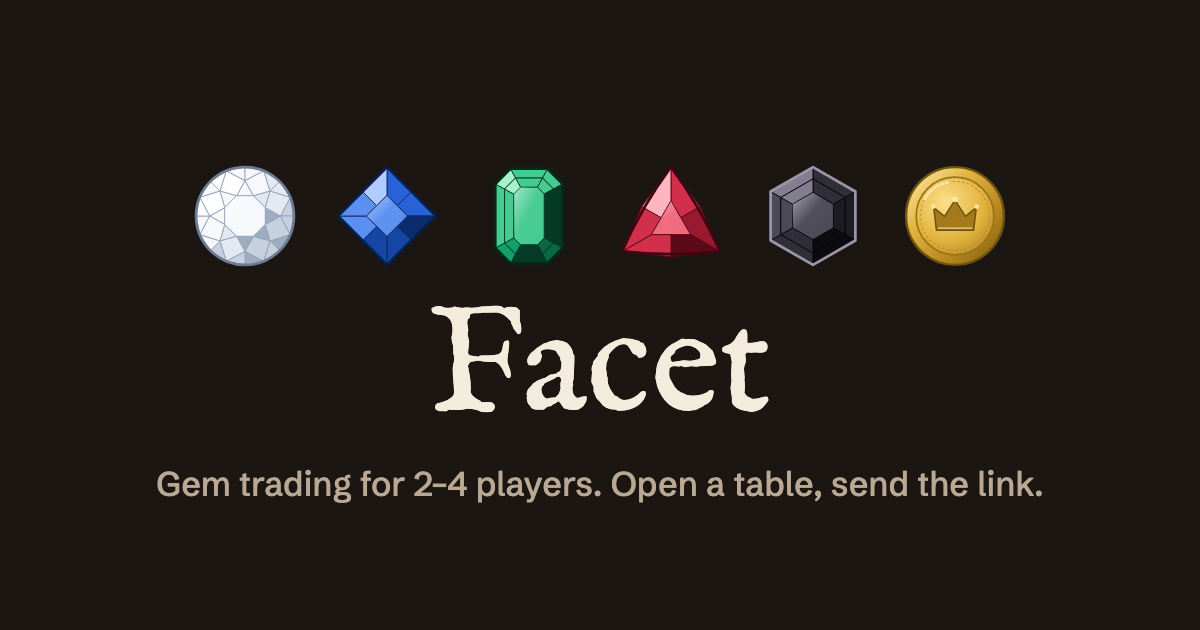
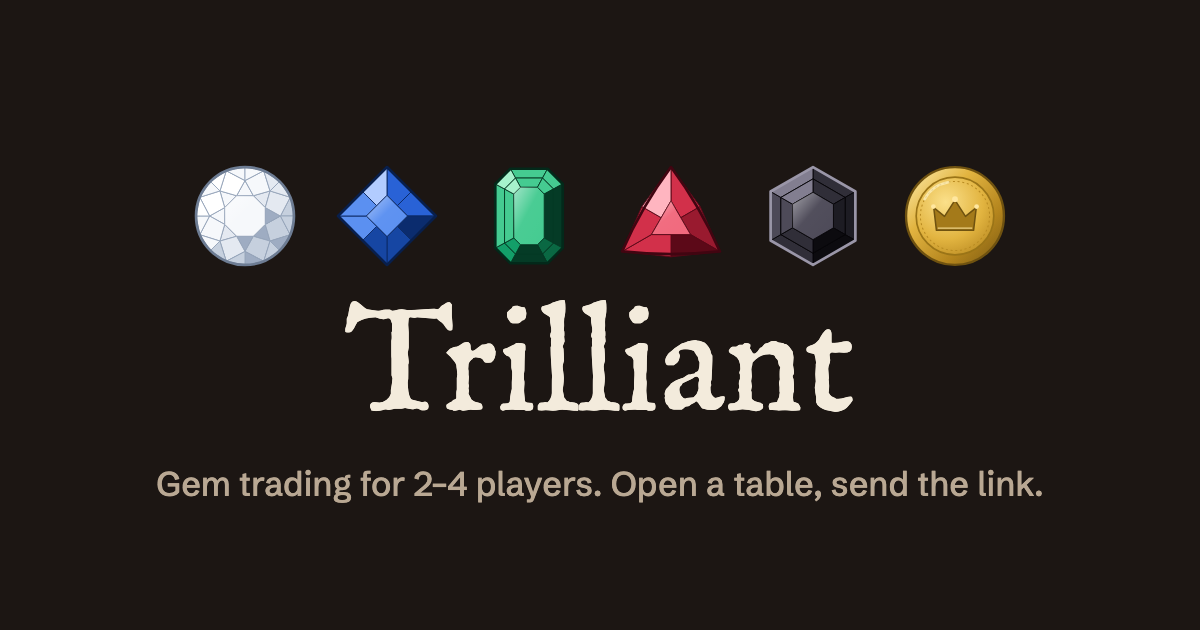
Rename to Trilliant
The triangular gem cut (the ruby here). Brand, favicon, preview image,
storage keys and protocol labels all move to the new name; nothing was
deployed under the old one, so no compatibility to keep. Tab-lock
heartbeat now runs on the worker ticker too.

Changed region(s): [[0.2775, 0.4825, 0.7092, 0.6635]]

diff --git a/js/net/identity.js b/js/net/identity.js
@@ -2,6 +2,7 @@
 // app keeps. Storage is injected so the same code runs in tests.
 
 import { createIdentity, loadIdentity, randomId } from './crypto.js';
+import { every } from './ticker.js';
 
 const TAB_TOKEN = randomId(6);
 const LIVE_MS = 5000;
@@ -17,7 +18,7 @@ function memoryStore() {
 
 function safe(store) {
   try {
-    const probe = '__facet_probe__';
+    const probe = '__trilliant_probe__';
     store.setItem(probe, '1');
     store.removeItem(probe);
     return store;
@@ -45,15 +46,15 @@ const writeJSON = (store, key, value) => {
 // ---------- identity per room ----------
 
 function isLiveElsewhere(storage, roomId, id) {
-  const rec = readJSON(storage.local, `facet:live:${roomId}`);
+  const rec = readJSON(storage.local, `trilliant:live:${roomId}`);
   return !!rec && rec.id === id && rec.tab !== TAB_TOKEN && Date.now() - rec.at < LIVE_MS;
 }
 
 // Returns { identity } or { conflict: true } when this browser's identity for
 // the room is already in use by another open tab.
 export async function resolveIdentity(storage, roomId, { forceNew = false } = {}) {
-  const tabKey = `facet:tab:${roomId}`;
-  const localKey = `facet:id:${roomId}`;
+  const tabKey = `trilliant:tab:${roomId}`;
+  const localKey = `trilliant:id:${roomId}`;
   const mine = readJSON(storage.session, tabKey);
   if (mine && !forceNew) return { identity: await loadIdentity(mine) };
   const shared = readJSON(storage.local, localKey);
@@ -71,39 +72,39 @@ export async function resolveIdentity(storage, roomId, { forceNew = false } = {}
 
 // Keep a heartbeat so a second tab can tell the identity is taken.
 export function holdIdentity(storage, roomId, id) {
-  const beat = () => writeJSON(storage.local, `facet:live:${roomId}`, { id, tab: TAB_TOKEN, at: Date.now() });
+  const beat = () => writeJSON(storage.local, `trilliant:live:${roomId}`, { id, tab: TAB_TOKEN, at: Date.now() });
   beat();
-  const timer = setInterval(beat, 2000);
+  const stop = every(2000, beat);
   return () => {
-    clearInterval(timer);
-    const rec = readJSON(storage.local, `facet:live:${roomId}`);
-    if (rec && rec.tab === TAB_TOKEN) storage.local.removeItem(`facet:live:${roomId}`);
+    stop();
+    const rec = readJSON(storage.local, `trilliant:live:${roomId}`);
+    if (rec && rec.tab === TAB_TOKEN) storage.local.removeItem(`trilliant:live:${roomId}`);
   };
 }
 
 // ---------- host records and recent tables ----------
 
-export const loadHostRecord = (storage, roomId) => readJSON(storage.local, `facet:room:${roomId}`);
-export const saveHostRecord = (storage, roomId, record) => writeJSON(storage.local, `facet:room:${roomId}`, record);
+export const loadHostRecord = (storage, roomId) => readJSON(storage.local, `trilliant:room:${roomId}`);
+export const saveHostRecord = (storage, roomId, record) => writeJSON(storage.local, `trilliant:room:${roomId}`, record);
 
 export function listTables(storage) {
-  const list = readJSON(storage.local, 'facet:tables');
+  const list = readJSON(storage.local, 'trilliant:tables');
   return Array.isArray(list) ? list : [];
 }
 
 export function rememberTable(storage, entry) {
   const list = listTables(storage).filter((t) => t.roomId !== entry.roomId);
   list.unshift({ ...entry, at: Date.now() });
-  writeJSON(storage.local, 'facet:tables', list.slice(0, 8));
+  writeJSON(storage.local, 'trilliant:tables', list.slice(0, 8));
 }
 
 export function forgetTable(storage, roomId) {
-  writeJSON(storage.local, 'facet:tables', listTables(storage).filter((t) => t.roomId !== roomId));
-  for (const k of [`facet:room:${roomId}`, `facet:id:${roomId}`]) storage.local.removeItem(k);
+  writeJSON(storage.local, 'trilliant:tables', listTables(storage).filter((t) => t.roomId !== roomId));
+  for (const k of [`trilliant:room:${roomId}`, `trilliant:id:${roomId}`]) storage.local.removeItem(k);
 }
 
 export const loadName = (storage) => {
-  const n = storage.local.getItem('facet:name');
+  const n = storage.local.getItem('trilliant:name');
   return typeof n === 'string' ? n : '';
 };
-export const saveName = (storage, name) => storage.local.setItem('facet:name', name);
+export const saveName = (storage, name) => storage.local.setItem('trilliant:name', name);

diff --git a/index.html b/index.html
@@ -3,23 +3,28 @@
 <head>
   <meta charset="utf-8">
   <meta name="viewport" content="width=device-width, initial-scale=1, viewport-fit=cover">
-  <title>Facet · gem trading for 2–4 players</title>
+  <title>Trilliant · gem trading for 2–4 players</title>
   <meta name="description" content="Trade gems, court nobles, reach 15 first. Open a table, send the link, play in the browser.">
   <meta name="theme-color" content="#1a1310">
-  <meta property="og:title" content="Facet · gem trading for 2–4 players">
+  <meta property="og:title" content="Trilliant · gem trading for 2–4 players">
   <meta property="og:description" content="Open a table, send the link, play in the browser. No sign-up.">
   <meta property="og:type" content="website">
+  <meta property="og:url" content="https://vladsrz.github.io/trilliant/">
+  <meta property="og:image" content="https://vladsrz.github.io/trilliant/og.png">
+  <meta property="og:image:width" content="1200">
+  <meta property="og:image:height" content="630">
+  <meta name="twitter:card" content="summary_large_image">
   <meta name="referrer" content="no-referrer">
   <meta http-equiv="Content-Security-Policy" content="default-src 'self'; script-src 'self'; style-src 'self' https://fonts.googleapis.com; font-src https://fonts.gstatic.com; img-src 'self' data:; connect-src wss://broker.emqx.io:8084 wss://broker.hivemq.com:8884 wss://test.mosquitto.org:8081; worker-src blob:; object-src 'none'; base-uri 'none'; form-action 'none'">
   <link rel="icon" href="favicon.svg" type="image/svg+xml">
   <link rel="preconnect" href="https://fonts.googleapis.com">
   <link rel="preconnect" href="https://fonts.gstatic.com" crossorigin>
   <link rel="stylesheet" href="https://fonts.googleapis.com/css2?family=IM+Fell+English:ital@0;1&family=Schibsted+Grotesk:wght@400;500;600;700;800&display=swap">
-  <link rel="stylesheet" href="css/facet.css">
+  <link rel="stylesheet" href="css/trilliant.css">
 </head>
 <body>
   <div id="app"></div>
-  <noscript>Facet needs JavaScript to run the table.</noscript>
+  <noscript>Trilliant needs JavaScript to run the table.</noscript>
   <script type="module" src="js/app.js"></script>
 </body>
 </html>

diff --git a/js/ui/screens.js b/js/ui/screens.js
@@ -30,7 +30,7 @@ export function Home({ name, onName, onCreate, tables, onResume, onForget, busy 
       <div class="home__gems" aria-hidden="true">
         ${['white', 'blue', 'green', 'red', 'black', 'gold'].map((c) => html`<${Gem} color=${c} />`)}
       </div>
-      <h1 class="home__mark">Facet</h1>
+      <h1 class="home__mark">Trilliant</h1>
       <p class="home__lede">Trade gems, buy cards, win nobles. First to ${WIN_POINTS} points wins. Open a table and send the link to a friend.</p>
       <form class="panel home__form" onSubmit=${submit}>
         <div>
@@ -205,8 +205,8 @@ export function Game({ snap, room, onLeave, notify }) {
     return () => clearTimeout(t);
   }, [myTurn, g.turn, g.round]);
   useEffect(() => {
-    const base = 'Facet';
-    const update = () => { document.title = myTurn && document.hidden ? '● Your turn · Facet' : base; };
+    const base = 'Trilliant';
+    const update = () => { document.title = myTurn && document.hidden ? '● Your turn · Trilliant' : base; };
     update();
     document.addEventListener('visibilitychange', update);
     return () => { document.removeEventListener('visibilitychange', update); document.title = base; };
@@ -280,7 +280,7 @@ export function Game({ snap, room, onLeave, notify }) {
 
   return html`<div class="game">
     <header class="topbar">
-      <p class="topbar__mark">Facet</p>
+      <p class="topbar__mark">Trilliant</p>
       <div class="topbar__status" aria-live="polite">
         <span class=${cls('turnpill', myTurn && 'is-mine')}>
           ${over ? 'Game over' : myTurn ? 'Your turn' : `${current.name}’s turn`}

diff --git a/js/net/crypto.js b/js/net/crypto.js
@@ -49,8 +49,8 @@ export function newRoomSecret() {
 export async function roomFromSecret(secret) {
   const raw = fromB64u(secret);
   if (raw.length !== 16) throw new Error('bad room secret');
-  const id = b64u(await sha256('facet/topic/', raw)).slice(0, 16);
-  const keyBytes = await sha256('facet/key/', raw);
+  const id = b64u(await sha256('trilliant/topic/', raw)).slice(0, 16);
+  const keyBytes = await sha256('trilliant/key/', raw);
   const key = await subtle.importKey('raw', keyBytes, 'AES-GCM', false, ['encrypt', 'decrypt']);
   return { id, key, secretBytes: raw };
 }
@@ -88,7 +88,7 @@ export async function openText(key, text) {
 const ECDH = { name: 'ECDH', namedCurve: 'P-256' };
 
 export async function fingerprint(pubB64) {
-  return b64u(await sha256('facet/id/', fromB64u(pubB64))).slice(0, 12);
+  return b64u(await sha256('trilliant/id/', fromB64u(pubB64))).slice(0, 12);
 }
 
 export async function createIdentity() {
@@ -111,7 +111,7 @@ export async function pairKey(identity, peerPub, roomSecretBytes) {
   const hk = await subtle.importKey('raw', bits, 'HKDF', false, ['deriveKey']);
   const ids = [identity.id, await fingerprint(peerPub)].sort().join('|');
   return subtle.deriveKey(
-    { name: 'HKDF', hash: 'SHA-256', salt: roomSecretBytes, info: enc.encode(`facet/pair/${ids}`) },
+    { name: 'HKDF', hash: 'SHA-256', salt: roomSecretBytes, info: enc.encode(`trilliant/pair/${ids}`) },
     hk,
     { name: 'AES-GCM', length: 256 },
     false,

diff --git a/css/trilliant.css b/css/trilliant.css
@@ -1,4 +1,4 @@
-/* Facet. A plain dark table, flat ivory cards, a little brass for controls.
+/* Trilliant. A plain dark table, flat ivory cards, a little brass for controls.
    The cut gems are the only saturated colour on the page. */
 
 :root {
@@ -53,7 +53,7 @@ body {
 button, input { font: inherit; color: inherit; }
 button { cursor: pointer; }
 :focus-visible { outline: 2px solid var(--brass-hi); outline-offset: 2px; }
-#facet-sprite { position: absolute; width: 0; height: 0; overflow: hidden; }
+#trilliant-sprite { position: absolute; width: 0; height: 0; overflow: hidden; }
 .sr-only { position: absolute; width: 1px; height: 1px; overflow: hidden; clip: rect(0 0 0 0); white-space: nowrap; }
 
 /* ---------- shared bits ---------- */

diff --git a/js/app.js b/js/app.js
@@ -102,7 +102,7 @@ function HomeScreen({ notify }) {
   const onResume = (t) => { location.hash = `${t.secret}.${t.hostId}`; };
   const onForget = (t) => { forgetTable(storage, t.roomId); setTables(listTables(storage)); };
 
-  useEffect(() => { document.title = 'Facet · gem trading for 2–4 players'; }, []);
+  useEffect(() => { document.title = 'Trilliant · gem trading for 2–4 players'; }, []);
   return html`<${Home} name=${name} onName=${onName} onCreate=${onCreate} tables=${tables} onResume=${onResume} onForget=${onForget} busy=${busy} />`;
 }
 

diff --git a/js/net/room.js b/js/net/room.js
@@ -95,7 +95,7 @@ export class HostRoom extends Emitter {
     };
     this.clients = new Map();
     this.bus = new Bus({
-      topic: `facet/v1/${room.id}`,
+      topic: `trilliant/v1/${room.id}`,
       key: room.key,
       selfId: identity.id,
       relays,
@@ -411,7 +411,7 @@ export class GuestRoom extends Emitter {
     this.lastHost = 0;
     this.pending = new Map();
     this.bus = new Bus({
-      topic: `facet/v1/${room.id}`,
+      topic: `trilliant/v1/${room.id}`,
       key: room.key,
       selfId: identity.id,
       relays,

diff --git a/js/ui/gems.js b/js/ui/gems.js
@@ -164,9 +164,9 @@ export const GEM_SPRITE = `<svg xmlns="http://www.w3.org/2000/svg" aria-hidden="
 </svg>`;
 
 export function injectSprite(doc = document) {
-  if (doc.getElementById('facet-sprite')) return;
+  if (doc.getElementById('trilliant-sprite')) return;
   const holder = doc.createElement('div');
-  holder.id = 'facet-sprite';
+  holder.id = 'trilliant-sprite';
   holder.innerHTML = GEM_SPRITE; // static markup generated above, no user data
   doc.body.prepend(holder);
 }

diff --git a/CLAUDE.md b/CLAUDE.md
@@ -1,6 +1,6 @@
-# Facet — agent notes
+# Trilliant — agent notes
 
-Online Splendor-rules game. Static site, no build, no server. Read `README.md` for the architecture.
+Online Splendor-rules game. Static site, no build, no server. Read `README.md` for the architecture. Live at https://vladsrz.github.io/trilliant/ (GitHub Pages from `main`).
 
 ## Invariants — don't break these
 - `js/engine.js` stays pure (no DOM, no network, no `Date.now()` in rules). Every rule change gets a test in `test/engine.test.mjs`; the simulation test must keep passing.
@@ -12,7 +12,7 @@ Online Splendor-rules game. Static site, no build, no server. Read `README.md` f
 - Names and chat render as text only (Preact escapes). Never `innerHTML` user data; the only `innerHTML` is the static gem sprite.
 
 ## Design
-Vlad wants it restrained: plain dark table, flat ivory cards, no art/textures/gradients on cards or background. The cut gems (one shape per colour) are the only saturated colour and carry colour-blind legibility. Numerals use the UI face (IM Fell's old-style figures read "1" as "I"). Keep it that way unless he asks.
+Deliberately restrained: plain dark table, flat ivory cards, no art/textures/gradients on cards or background. The cut gems (one shape per colour) are the only saturated colour and carry colour-blind legibility. Numerals use the UI face (IM Fell's old-style figures read "1" as "I"). Keep it that way unless asked.
 
 ## Verify before calling a change done
 1. `npm test` and `npm run test:live`.

diff --git a/README.md b/README.md
@@ -1,6 +1,10 @@
-# Facet
+# Trilliant
 
 Online gem-trading card game for 2–4 players, played by the rules of Splendor. Open a table, send the link, play in the browser. No accounts, no server to run.
+
+**Play:** https://vladsrz.github.io/trilliant/
+
+A trilliant is the triangular gem cut; here it's the ruby.
 
 Fan-made. Not affiliated with Space Cowboys or Asmodee. No art or text from the published game; card costs and nobles are the base-game values (cross-checked against three independent public transcriptions and the rulebook example).
 
